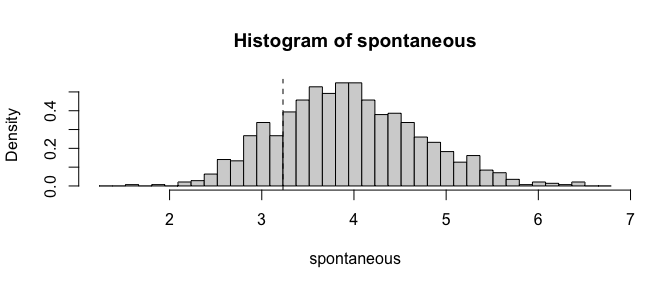
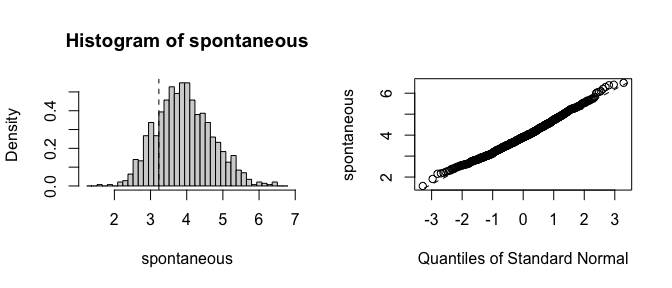
Updates

diff --git a/README.md b/README.md
@@ -101,10 +101,10 @@ summary(fwb_est, ci.type = "bca")
 #> beta 2.04e+00   8.79e-01 1.24e+00  4.55e+00
 
 # Plot the bootstrap distribution
-plot(fwb_est, index = "beta", qdist = "chisq")
+plot(fwb_est, index = "beta")
 ```
 
-<img src="man/figures/README-unnamed-chunk-5-1.png" width="80%" style="display: block; margin: auto;" /><img src="man/figures/README-unnamed-chunk-5-2.png" width="80%" style="display: block; margin: auto;" />
+<img src="man/figures/README-unnamed-chunk-5-1.png" width="80%" style="display: block; margin: auto;" />
 
 ### Infertility logistic regression analysis using `infert` dataset
 
@@ -213,7 +213,7 @@ plot(boot_est, index = 2)
 plot(fwb_est, index = 2)
 ```
 
-<img src="man/figures/README-unnamed-chunk-10-1.png" width="80%" style="display: block; margin: auto;" /><img src="man/figures/README-unnamed-chunk-10-2.png" width="80%" style="display: block; margin: auto;" />
+<img src="man/figures/README-unnamed-chunk-10-1.png" width="80%" style="display: block; margin: auto;" />
 
 It is clear that the estimates from the traditional bootstrap are
 pathological, whereas the estimates from the FWB are more reasonable.
